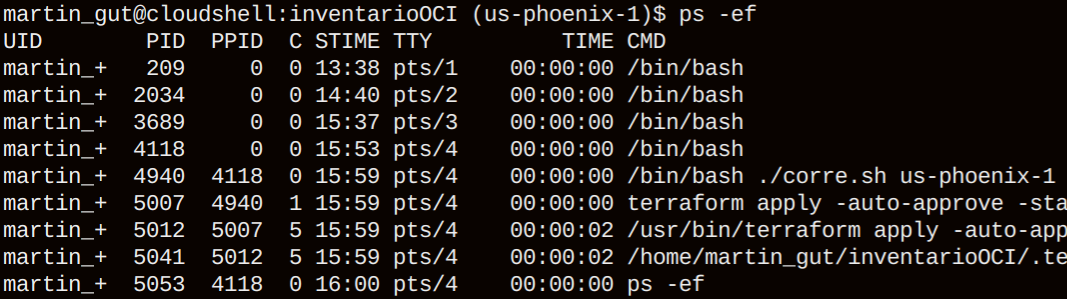
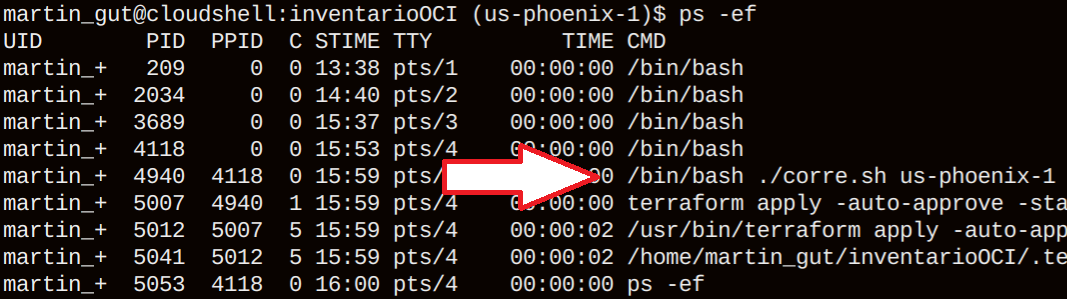
Normal

Changed region(s): [[0.4021, 0.4816, 0.5876, 0.6923]]

diff --git a/README.md b/README.md
@@ -46,4 +46,10 @@ Esperar hasta que aparezca mensaje de EXITO
 NOTA: No cerrar el browser
 si entrega mensaje de inactividad, simplemente reconectarse
 
+![image0009](image0009.png)
 
+Una vez reconectado, volver al directorio y verificar estado
+
+           $ cd inventarioOCI
+           $ ps -ef
+           $ tail nohup.out
